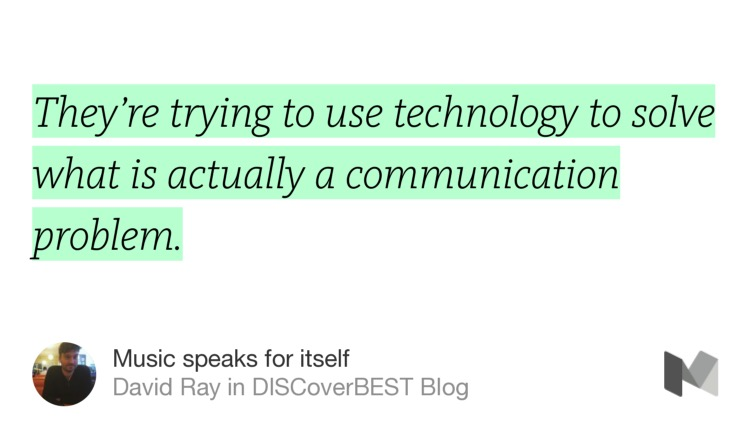
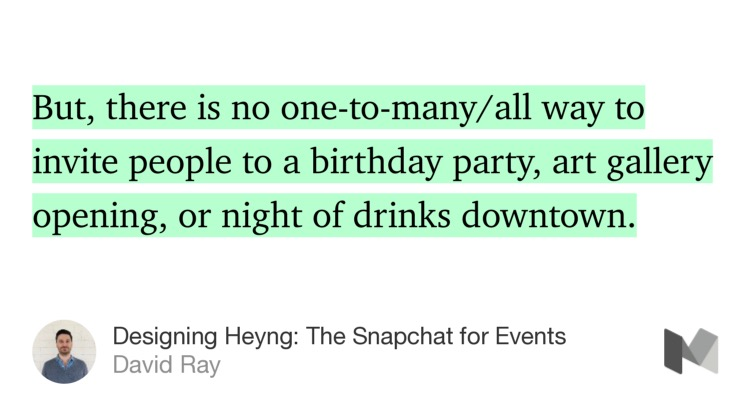
add articles

Changed region(s): [[0.0307, 0.1743, 0.9813, 0.6102], [0.0307, 0.7554, 0.7667, 0.9588], [0.8893, 0.7845, 0.9813, 0.9298]]

diff --git a/source/stylesheets/site.css.scss b/source/stylesheets/site.css.scss
@@ -36,6 +36,16 @@ button, .btn {
   box-sizing: border-box;
 }
 
+.btn-second {
+  margin-top: modular_scale(-1);
+  color: $dark-gray;
+  border: 1px solid $dark-gray;
+
+  &:hover, &:focus, &:visited {
+    background-color: $dark-gray;
+  }
+}
+
 article {
   margin-bottom: 2em;
 }
